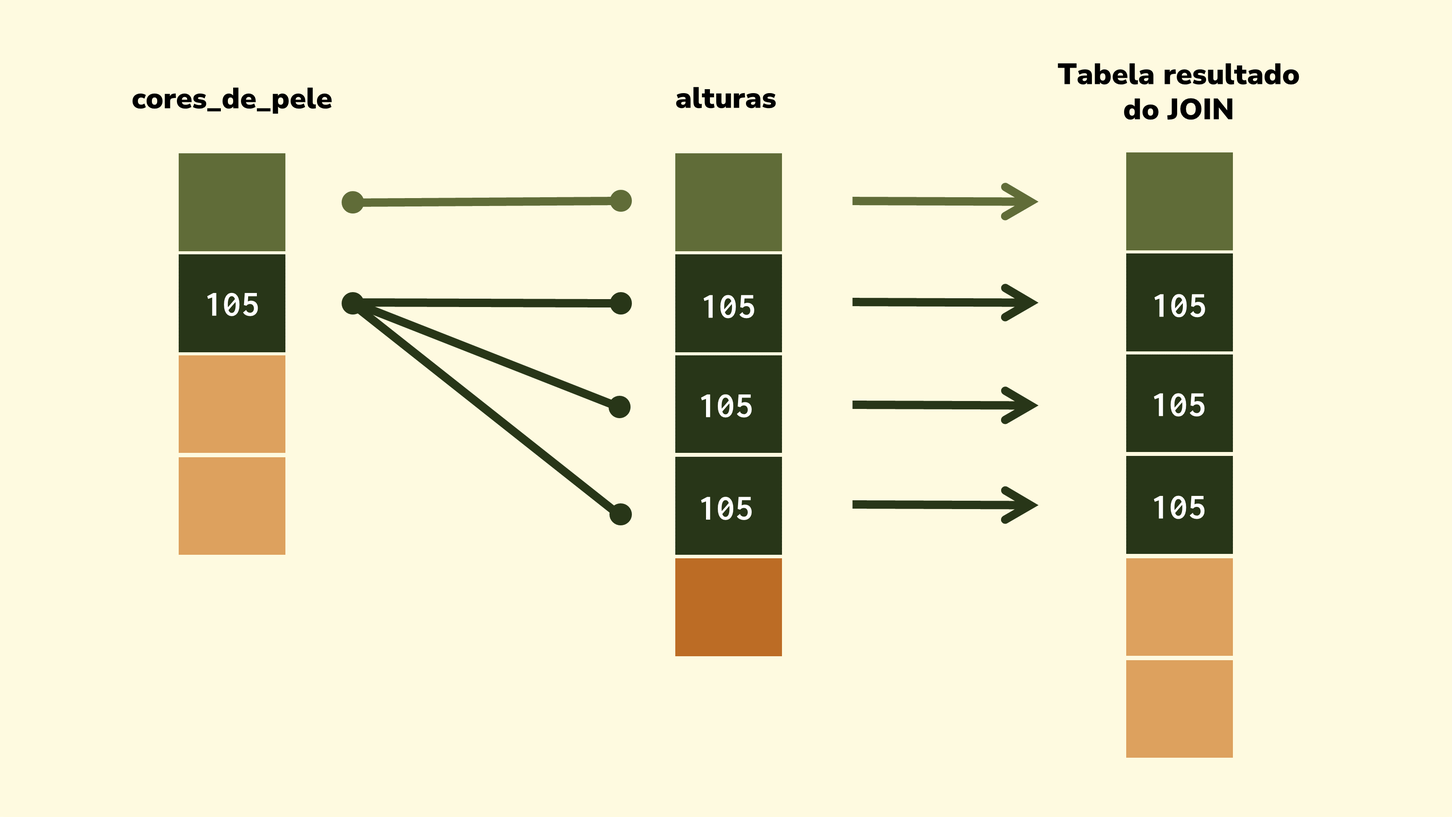
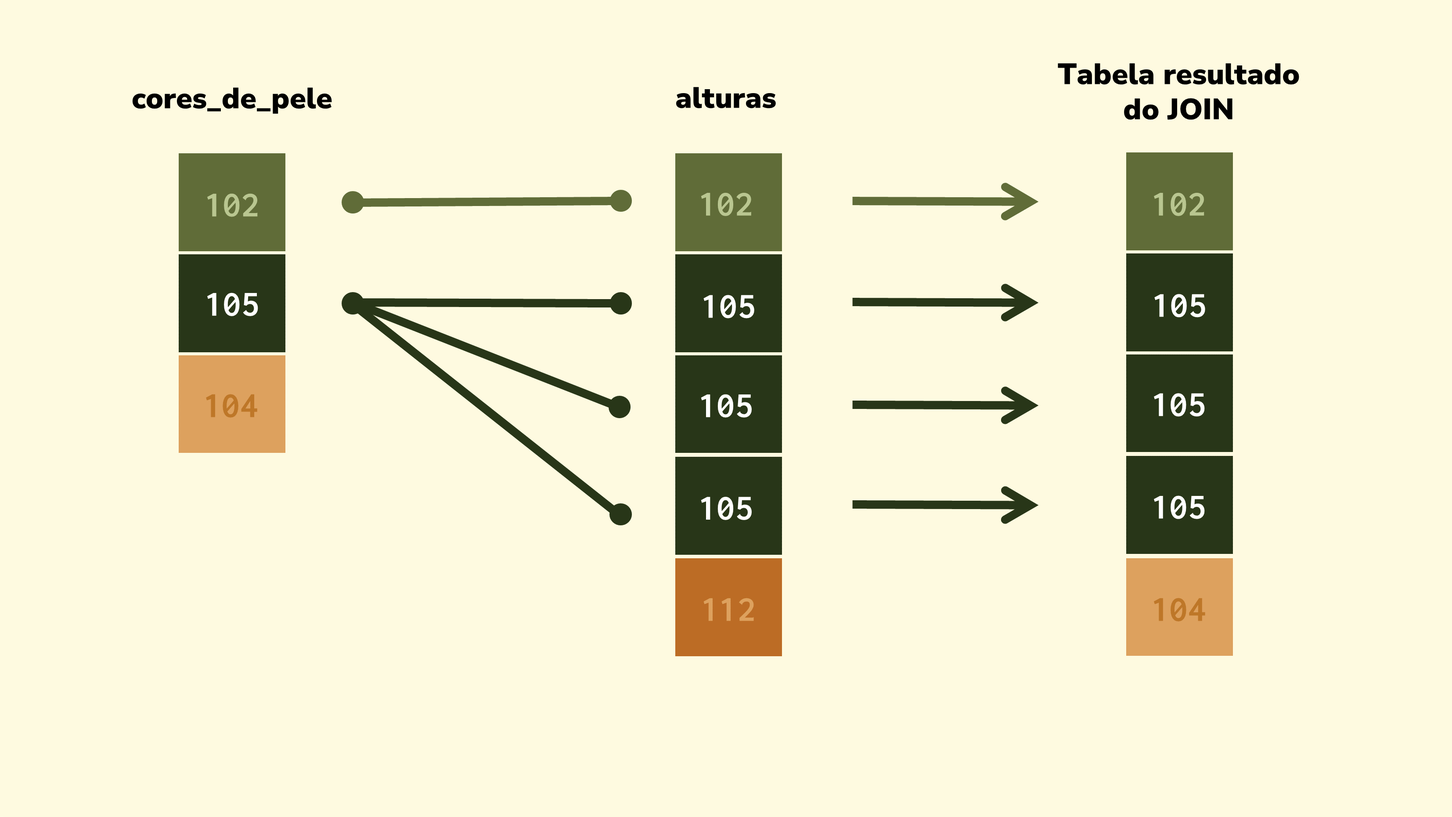
Post is complete

diff --git a/_site/posts/2023-01-10-join-duplicates/pt/index.html b/_site/posts/2023-01-10-join-duplicates/pt/index.html
@@ -286,7 +286,10 @@ gtag('config', 'G-7E6XG4WKHE', { 'anonymize_ip': true});
           Se os seus dados crescerem de forma repentina, sem explicação aparente, verifique se os seus JOINs são a fonte desse problema
         </div>
       </div>
-                </div>
+                          <div class="quarto-categories">
+                <div class="quarto-category">JOINs</div>
+              </div>
+                  </div>
   </div>
     
   <div class="quarto-title-meta-author">
@@ -338,13 +341,13 @@ A regra de ouro da programação DRY (*do not repeat yourself*) também pode inf
 <blockquote class="blockquote">
 <p>Uhmm… a tabela antiga indica que o número de maquininhas vendidas no mês de Dezembro foi de 1387. Porém, esse mesmo indicador na tabela nova está em 1824 para o mesmo mês de Dezembro. Porque esse aumento?</p>
 </blockquote>
-<p>Aumentos desse tipo podem ocorrer por uma variedade de razões. Porém, operações de JOIN tem sido uma razão específica que tenho enfrentado com muita frequência em meu trabalho. Em outras palavras, JOINs são fontes extremamente comuns desse tipo de “efeito expansivo”, e, muitos analistas não compreendem o porquê, ou não enxergam como isso pode ocorrer.</p>
-<p>Nesse post, busco justamente esclarecer como uma operação de JOIN pode causar esse “efeito de aumento” em seus dados. Eu também explico esse efeito em detalhes no capítulo 6 do meu livro introdutório da linguagem R. Mais especificamente, a partir da seção <a href="https://pedropark99.github.io/Introducao_R/introdu%C3%A7%C3%A3o-a-base-de-dados-relacionais-com-dplyr.html#rela%C3%A7%C3%B5es-entre-keys-primary-keys-s%C3%A3o-menos-comuns-do-que-voc%C3%AA-pensa">Relações entre <em>keys: primary keys</em> são menos comuns do que você pensa</a>. Portanto, grande parte do conhecimento exposto aqui são referências diretas ao livro.</p>
+<p>Aumentos desse tipo podem ocorrer por uma variedade de razões. Porém, operações de JOIN tem sido uma razão específica que tenho enfrentado com muita frequência em meu trabalho. Em outras palavras, JOINs são fontes extremamente comuns de dados duplicados. Como resultado, esses dados duplicados acabam gerando um “efeito expansivo” sobre os seus indicadores e suas tabelas.</p>
+<p>Muitos analistas não compreendem o porquê, ou não enxergam como isso pode ocorrer. Nesse post, busco justamente esclarecer como uma operação de JOIN pode causar esse “efeito expansivo” em seus dados. Eu também explico esse efeito em detalhes no capítulo 6 do meu livro introdutório da linguagem R. Mais especificamente, a partir da seção <a href="https://pedropark99.github.io/Introducao_R/introdu%C3%A7%C3%A3o-a-base-de-dados-relacionais-com-dplyr.html#rela%C3%A7%C3%B5es-entre-keys-primary-keys-s%C3%A3o-menos-comuns-do-que-voc%C3%AA-pensa">Relações entre <em>keys: primary keys</em> são menos comuns do que você pensa</a>. Portanto, grande parte do conhecimento exposto aqui são referências diretas ao livro.</p>
 </section>
 <section id="esse-efeito-independe-da-linguagem-de-programação-utilizada" class="level1">
 <h1>Esse efeito independe da linguagem de programação utilizada</h1>
-<p>Por opção minha, vou utilizar exemplos na linguagem R para demonstrar esse “efeito expansivo” de JOINs ao longo desse post. Mas você poderia facilmente transpor todos esses exemplos para qualquer outra linguagem de sua preferência (e.g.&nbsp;como o Python).</p>
-<p>Ou seja, o conhecimento exposto aqui <strong>independe da linguagem utilizada</strong>. Pois o efeito expansivo descrito aqui é uma característica intrínseca ao processo de JOIN, e não da linguagem utilizada.</p>
+<p>Por opção minha, vou utilizar exemplos na linguagem R para demonstrar esse “efeito expansivo” de JOINs. Mas você poderia facilmente transpor todos esses exemplos para qualquer outra linguagem de sua preferência (e.g.&nbsp;como o Python).</p>
+<p>Ou seja, o conhecimento exposto aqui <strong>independe da linguagem utilizada</strong>. Pois o efeito descrito aqui é uma característica intrínseca ao processo de JOIN, e não da linguagem utilizada.</p>
 </section>
 <section id="um-exemplo-de-efeito-expansivo" class="level1">
 <h1>Um exemplo de efeito expansivo</h1>
@@ -421,11 +424,11 @@ A regra de ouro da programação DRY (*do not repeat yourself*) também pode inf
 </div>
 </div>
 <p>Repare que nós não mudamos a fórmula de cálculo do indicador <code>N_usuarios</code>. Nós aplicamos a mesma função <code>n()</code> que utilizamos anteriormente. Nós também agrupamos a tabela <code>dados</code> pela coluna <code>Cor</code> com <code>group_by()</code>, da mesma forma que fizemos anteriormente. Porque esse aumento ocorreu?</p>
-<p>Nós não mudamos nada na fórmula de cálculo do indicador <code>N_usuarios</code>. Porém, nós introduzimos um novo item na cadeia de transformações da tabela. Mais especificamente, um LEFT JOIN realizado pela função <code>left_join()</code>. Ou seja, <strong>o JOIN é o que mudou nesse código</strong>, e ele é o culpado por esse estranho e repentino aumento no número de usuários de cor amarela.</p>
+<p>Nós não mudamos nada na fórmula de cálculo do indicador <code>N_usuarios</code>. Porém, nós introduzimos um novo item na cadeia de transformações da tabela. Mais especificamente, um LEFT JOIN realizado pela função <code>left_join()</code>. Ou seja, <strong>o JOIN é o que mudou nesse código</strong>, e ele é o culpado por esse estranho e repentino aumento no número de usuários de cor “Amarelo”.</p>
 </section>
 <section id="o-que-aconteceu" class="level2">
 <h2 class="anchored" data-anchor-id="o-que-aconteceu">O que aconteceu?</h2>
-<p>Se olharmos bem para a tabela resultado do JOIN (tabela <code>dados</code>) podemos começar a compreender o que aconteceu. Perceba que temos 6 linhas nessa tabela, isto é, temos 2 linhas a mais que a tabela <code>cores_de_pele</code> (que possui 4 linhas). Perceba também que temos 3 linhas nessa tabela descrevendo o mesmo usuário de ID 105. Ou seja, temos duplicatas para esse usuário.</p>
+<p>Se olharmos bem para a tabela resultado do JOIN (tabela <code>dados</code>) podemos começar a compreender o que aconteceu. Perceba que temos 6 linhas nessa tabela, isto é, temos 2 linhas a mais que a tabela <code>cores_de_pele</code> (que possui 4 linhas). Perceba também que temos 3 linhas nessa tabela descrevendo o mesmo usuário de ID 105. Ou seja, temos <strong>duplicatas</strong> para esse usuário.</p>
 <div class="cell">
 <div class="sourceCode cell-code" id="cb10"><pre class="sourceCode r code-with-copy"><code class="sourceCode r"><span id="cb10-1"><a href="#cb10-1" aria-hidden="true" tabindex="-1"></a>dados</span></code><button title="Copy to Clipboard" class="code-copy-button"><i class="bi"></i></button></pre></div>
 <div class="cell-output cell-output-stdout">
@@ -457,23 +460,28 @@ A regra de ouro da programação DRY (*do not repeat yourself*) também pode inf
 <section id="entenda-o-processo-de-pareamento-de-um-join" class="level2">
 <h2 class="anchored" data-anchor-id="entenda-o-processo-de-pareamento-de-um-join">Entenda o processo de pareamento de um JOIN</h2>
 <p>A única linha de ID 105 na tabela <code>cores_de_pele</code> se transformou em 3 linhas devido ao processo de pareamento dos dados realizado pelo JOIN. Todo JOIN, independe do tipo que ele seja (<em>left, inner, right, full</em>), vai sempre realizar um processo de pareamento entre os dados das duas tabelas, utilizando as colunas que representam as “chaves” do JOIN <span class="citation" data-cites="pedro2022">(<a href="#ref-pedro2022" role="doc-biblioref">Faria 2022</a>)</span>.</p>
-<p>No nosso exemplo, as chaves do JOIN são representadas pela coluna <code>ID</code>. Logo, o JOIN vai puxar os dados de uma tabela para a outra, utilizando os valores dessa coluna como guia. Podemos visualizar esse processo de pareamento dos dados em <a href="#fig-pareamento">Figure&nbsp;1</a>.</p>
+<p>Podemos visualizar esse processo de pareamento dos dados em <a href="#fig-pareamento">Figure&nbsp;1</a>. Perceba que, tanto no exemplo dessa imagem, quanto nesse exemplo desse post, as chaves do JOIN são representadas pela coluna <code>ID</code>. Logo, o JOIN vai puxar os dados de uma tabela para a outra, utilizando os valores dessa coluna como guia.</p>
 <div id="fig-pareamento" class="quarto-figure quarto-figure-center anchored">
 <figure class="figure">
 <p><img src="../pareamento1.png" class="img-fluid figure-img"></p>
 <p></p><figcaption class="figure-caption">Figure&nbsp;1: Processo de pareamento realizado em um JOIN</figcaption><p></p>
 </figure>
 </div>
-<p>No exemplo de <a href="#fig-pareamento">Figure&nbsp;1</a>, ambas as tabelas que estão sendo unidas possuem uma linha para cada <code>ID</code>. Ou seja, não existe IDs duplicados em nenhuma das duas tabelas, formando assim, uma relação de um para um entre as chaves do JOIN.</p>
-<p>Contudo, apesar da tabela <code>cores_de_pele</code> não apresentar IDs duplicados, a tabela <code>alturas</code> por sua vez, possui três linhas diferentes para o mesmo ID 105. Nesse caso, como o processo de pareamento do JOIN deve se comportar? Bem, o seguinte vai acontecer…</p>
-<p>Primeiro, o JOIN vai pegar o ID 105 da tabela <code>cores_de_pele</code> e pesquisar por ele ao longo da tabela <code>alturas</code>. Como resultado, o JOIN vai localizar três linhas distintas para o ID 105. Segundo, o JOIN percebe que há um desequilíbrio (1 linha de <code>cores_de_pele</code> <span class="math inline">\(\times\)</span> 3 linhas de <code>alturas</code>). Terceiro, para reequilibrar essa balança, o JOIN vai executar um produto cartesiano entre as linhas dessas duas tabelas. A <a href="#fig-desenho-expansao">Figure&nbsp;2</a> apresenta de forma visual esse produto cartesiano aplicado sobre o ID 105:</p>
+<p>No exemplo de <a href="#fig-pareamento">Figure&nbsp;1</a>, ambas as tabelas que estão sendo unidas possuem uma linha para cada <code>ID</code>. Ou seja, não existe IDs duplicados em nenhuma das duas tabelas, formando assim, uma relação de “um para um” entre as chaves do JOIN.</p>
+<p>Contudo, no exemplo deste post, a tabela <code>alturas</code> possui três linhas diferentes para o mesmo ID 105, enquanto a tabela <code>cores_de_pele</code> não apresenta IDs duplicados. Isso acaba formando uma relação de “um para muitos” entre as chaves do JOIN. Nesse caso, como o processo de pareamento do JOIN deve se comportar? Bem, o seguinte vai acontecer…</p>
+<ol type="1">
+<li><p>O JOIN vai pegar o ID 105 da tabela <code>cores_de_pele</code> e pesquisar por ele ao longo da tabela <code>alturas</code>. Como resultado, o JOIN vai localizar três linhas distintas para o ID 105.</p></li>
+<li><p>O JOIN percebe que há um desequilíbrio (1 linha de <code>cores_de_pele</code> <span class="math inline">\(\times\)</span> 3 linhas de <code>alturas</code>).</p></li>
+<li><p>Para reequilibrar essa balança, o JOIN vai executar um produto cartesiano entre as linhas dessas duas tabelas.</p></li>
+</ol>
+<p>A <a href="#fig-desenho-expansao">Figure&nbsp;2</a> apresenta de forma visual esse produto cartesiano aplicado sobre o ID 105:</p>
 <div id="fig-desenho-expansao" class="quarto-figure quarto-figure-center anchored">
 <figure class="figure">
 <p><img src="./../expansao.png" class="img-fluid figure-img"></p>
 <p></p><figcaption class="figure-caption">Figure&nbsp;2: Uma representação visual do efeito expansivo sobre o ID 105</figcaption><p></p>
 </figure>
 </div>
-<p>Ou seja, o JOIN vai retornar como resultado, todas as combinações possíveis entre a linha única de <code>cores_de_pele</code> e as 3 linhas de <code>alturas</code>. Ou seja, a linha única de <code>cores_de_pele</code> é combinada com cada uma das 3 linhas de <code>alturas</code>. Como resultado, temos as 3 linhas de ID 105 na tabela <code>dados</code>.</p>
+<p>Ou seja, o JOIN vai retornar como resultado, todas as combinações possíveis entre a linha única de <code>cores_de_pele</code> e as 3 linhas de <code>alturas</code>. Ou seja, a linha única de <code>cores_de_pele</code> é combinada com cada uma das 3 linhas de <code>alturas</code>. Como resultado, temos as 3 linhas de ID 105 na tabela <code>dados</code>:</p>
 <div class="cell">
 <div class="sourceCode cell-code" id="cb14"><pre class="sourceCode r code-with-copy"><code class="sourceCode r"><span id="cb14-1"><a href="#cb14-1" aria-hidden="true" tabindex="-1"></a>dados</span></code><button title="Copy to Clipboard" class="code-copy-button"><i class="bi"></i></button></pre></div>
 <div class="cell-output cell-output-stdout">
@@ -490,21 +498,18 @@ A regra de ouro da programação DRY (*do not repeat yourself*) também pode inf
 </div>
 </section>
 </section>
-<section id="relações-entre-keys-de-um-join" class="level1">
-<h1>Relações entre <em>keys</em> de um JOIN</h1>
-<p>As “chaves” (ou <em>keys</em>) de todo JOIN podem formar três tipos de relação: 1) um para um; 2) um para muitos; e 3) muitos para muitos. Em <a href="#fig-relacoes">Figure&nbsp;3</a> apresentamos cada uma dessas relações de forma visual, onde a coluna <code>key</code> representa a “chave” do JOIN.</p>
+<section id="conclusão" class="level1">
+<h1>Conclusão</h1>
+<p>Portanto, o produto cartesiano executado pelo JOIN gerou linhas duplicadas para o ID 105, e essa introdução de duplicatas acabou distorcendo o valor dos indicadores. <strong>O efeito expansivo está no produto cartesiano gerado pelo JOIN</strong>, e você deve ficar atento em todas as situações em que esse produto pode ocorrer.</p>
+<p>Mas então… em que momentos especificamente esse produto cartesiano é gerado? A resposta é: sempre que existir uma relação de “um para muitos” ou de “muitos para muitos” entre as chaves do JOIN. As “chaves” (ou <em>keys</em>) de todo JOIN podem formar três tipos de relação: 1) um para um; 2) um para muitos; e 3) muitos para muitos <span class="citation" data-cites="pedro2022">(<a href="#ref-pedro2022" role="doc-biblioref">Faria 2022</a>)</span>. Em <a href="#fig-relacoes">Figure&nbsp;3</a> apresentamos cada uma dessas relações de forma visual, onde a coluna <code>key</code> representa a “chave” do JOIN.</p>
 <div id="fig-relacoes" class="quarto-figure quarto-figure-center anchored">
 <figure class="figure">
 <p><img src="../relacoes_keys.png" class="img-fluid figure-img" style="width:80.0%"></p>
 <p></p><figcaption class="figure-caption">Figure&nbsp;3: Resumo das relações possíveis entre <em>keys</em></figcaption><p></p>
 </figure>
 </div>
-<p>Perceba que, para o caso de relação um para um, o número de linhas na tabela resultado permanece inalterado. Porém, as relações que realmente nos interessam nesse post são as relações de “um para muitos” e de “muitos para muitos”. Perceba que algum nível de “duplicação” de informações é gerado nesses dois tipos de relação.</p>
-<p>É através dessa “duplicação” que pode ocorrer o que estamos chamando de “efeito expansivo” dos JOINs nesse post. <strong>Vale destacar que esse efeito independe do tipo de JOIN que você está realizando</strong>. Pois esse efeito expansivo nasce do processo de pareamento e da relação entre as “chaves” do JOIN, e não do tipo de JOIN (<em>inner, left, right, full</em>) que você está executando.</p>
-</section>
-<section id="conclusão" class="level1">
-<h1>Conclusão</h1>
-<p>Perceba pelo exemplo acima, que <strong>em nenhum momento nós mudamos a forma</strong> como o indicador <code>N_usuarios</code> estava sendo calculado. Porém, o simples fato de introduzirmos um JOIN no caminho gerou uma expansão dos dados que distorceu os valores desse indicador.</p>
+<p>Perceba que, para o caso de relação um para um, o número de linhas na tabela resultado permanece inalterado. Porém, as relações que realmente nos interessam nesse post são as relações de “um para muitos” e de “muitos para muitos”. Perceba que um produto cartesiano ocorre nesses dois tipos de relação, e, como resultado, algum nível de “duplicação” de informações é gerado na tabela resultado do JOIN. É através dessa “duplicação” que pode ocorrer o que estamos chamando de “efeito expansivo” dos JOINs nesse post.</p>
+<p>Por último, vale destacar que este produto cartesiano independe do tipo de JOIN (<em>inner, left, right, full</em>) que você está executando, mas depende diretamente dos seus dados e da relação que eles formam entre as chaves do JOIN.</p>
 
 
 

diff --git a/_site/posts/index.html b/_site/posts/index.html
@@ -229,7 +229,7 @@ gtag('config', 'G-7E6XG4WKHE', { 'anonymize_ip': true});
 <!-- margin-sidebar -->
     <div id="quarto-margin-sidebar" class="sidebar margin-sidebar">
         
-    <h5 class="quarto-listing-category-title">Categories</h5><div class="quarto-listing-category category-cloud"><div class="category" data-category="API"><span class="quarto-category-count category-cloud-1">API</span></div><div class="category" data-category="Apache Spark"><span class="quarto-category-count category-cloud-1">Apache Spark</span></div><div class="category" data-category="Book"><span class="quarto-category-count category-cloud-5">Book</span></div><div class="category" data-category="Figma"><span class="quarto-category-count category-cloud-1">Figma</span></div><div class="category" data-category="Joins"><span class="quarto-category-count category-cloud-2">Joins</span></div><div class="category" data-category="Package"><span class="quarto-category-count category-cloud-2">Package</span></div><div class="category" data-category="Power BI"><span class="quarto-category-count category-cloud-1">Power BI</span></div><div class="category" data-category="Power BI Online"><span class="quarto-category-count category-cloud-1">Power BI Online</span></div><div class="category" data-category="Python"><span class="quarto-category-count category-cloud-1">Python</span></div><div class="category" data-category="R Language"><span class="quarto-category-count category-cloud-7">R Language</span></div><div class="category" data-category="Teaching"><span class="quarto-category-count category-cloud-3">Teaching</span></div><div class="category" data-category="pyspark"><span class="quarto-category-count category-cloud-1">pyspark</span></div></div></div>
+    <h5 class="quarto-listing-category-title">Categories</h5><div class="quarto-listing-category category-cloud"><div class="category" data-category="API"><span class="quarto-category-count category-cloud-1">API</span></div><div class="category" data-category="Apache Spark"><span class="quarto-category-count category-cloud-1">Apache Spark</span></div><div class="category" data-category="Book"><span class="quarto-category-count category-cloud-3">Book</span></div><div class="category" data-category="Figma"><span class="quarto-category-count category-cloud-1">Figma</span></div><div class="category" data-category="JOINs"><span class="quarto-category-count category-cloud-3">JOINs</span></div><div class="category" data-category="Package"><span class="quarto-category-count category-cloud-2">Package</span></div><div class="category" data-category="Power BI"><span class="quarto-category-count category-cloud-1">Power BI</span></div><div class="category" data-category="Power BI Online"><span class="quarto-category-count category-cloud-1">Power BI Online</span></div><div class="category" data-category="Python"><span class="quarto-category-count category-cloud-1">Python</span></div><div class="category" data-category="R Language"><span class="quarto-category-count category-cloud-5">R Language</span></div><div class="category" data-category="Teaching"><span class="quarto-category-count category-cloud-3">Teaching</span></div><div class="category" data-category="pyspark"><span class="quarto-category-count category-cloud-1">pyspark</span></div></div></div>
 <!-- main -->
 <main class="content" id="quarto-document-content">
 
@@ -290,7 +290,7 @@ gtag('config', 'G-7E6XG4WKHE', { 'anonymize_ip': true});
     </div>
 </div>
 <div class="list grid quarto-listing-cols-3">
-<div class="g-col-1" data-index="0" data-listing-date-sort="1673319600000" data-listing-file-modified-sort="1673664134315" data-listing-reading-time-sort="7.375">
+<div class="g-col-1" data-index="0" data-categories="JOINs" data-listing-date-sort="1673319600000" data-listing-file-modified-sort="1673707292014" data-listing-reading-time-sort="7.745">
 <a href="../posts/2023-01-10-join-duplicates/pt/index.html" class="quarto-grid-link">
 <div class="quarto-grid-item card h-100 card-left">
 <p class="card-img-top">
@@ -300,6 +300,11 @@ gtag('config', 'G-7E6XG4WKHE', { 'anonymize_ip': true});
 <h5 class="no-anchor card-title listing-title">
 JOINs são importantes fontes de duplicações em seus dados
 </h5>
+<div class="listing-categories">
+<div class="listing-category" onclick="window.quartoListingCategory('JOINs'); return false;">
+JOINs
+</div>
+</div>
 <div class="card-text listing-description">
 Se os seus dados crescerem de forma repentina, sem explicação aparente, verifique se os seus JOINs são a fonte desse problema
 </div>
@@ -525,7 +530,7 @@ May 26, 2021
 </div>
 </a>
 </div>
-<div class="g-col-1" data-index="7" data-categories="Joins,Teaching,Book,R Language" data-listing-date-sort="1609556400000" data-listing-file-modified-sort="1671533809070" data-listing-reading-time-sort="4.805">
+<div class="g-col-1" data-index="7" data-categories="JOINs,Teaching" data-listing-date-sort="1609556400000" data-listing-file-modified-sort="1673707321834" data-listing-reading-time-sort="4.805">
 <a href="../posts/2021-01-02-tabela-destinataria-fonte/en/index.html" class="quarto-grid-link">
 <div class="quarto-grid-item card h-100 card-left">
 <p class="card-img-top">
@@ -536,17 +541,11 @@ May 26, 2021
 Recipient table and source table
 </h5>
 <div class="listing-categories">
-<div class="listing-category" onclick="window.quartoListingCategory('Joins'); return false;">
-Joins
+<div class="listing-category" onclick="window.quartoListingCategory('JOINs'); return false;">
+JOINs
 </div>
 <div class="listing-category" onclick="window.quartoListingCategory('Teaching'); return false;">
 Teaching
-</div>
-<div class="listing-category" onclick="window.quartoListingCategory('Book'); return false;">
-Book
-</div>
-<div class="listing-category" onclick="window.quartoListingCategory('R Language'); return false;">
-R Language
 </div>
 </div>
 <div class="card-text listing-description">
@@ -564,7 +563,7 @@ Jan 2, 2021
 </div>
 </a>
 </div>
-<div class="g-col-1" data-index="8" data-categories="Joins,Teaching,Book,R Language" data-listing-date-sort="1609556400000" data-listing-file-modified-sort="1671533809073" data-listing-reading-time-sort="4.525">
+<div class="g-col-1" data-index="8" data-categories="JOINs,Teaching" data-listing-date-sort="1609556400000" data-listing-file-modified-sort="1673707338311" data-listing-reading-time-sort="4.525">
 <a href="../posts/2021-01-02-tabela-destinataria-fonte/pt/index.html" class="quarto-grid-link">
 <div class="quarto-grid-item card h-100 card-left">
 <p class="card-img-top">
@@ -575,17 +574,11 @@ Jan 2, 2021
 Tabela destinatária e tabela fonte
 </h5>
 <div class="listing-categories">
-<div class="listing-category" onclick="window.quartoListingCategory('Joins'); return false;">
-Joins
+<div class="listing-category" onclick="window.quartoListingCategory('JOINs'); return false;">
+JOINs
 </div>
 <div class="listing-category" onclick="window.quartoListingCategory('Teaching'); return false;">
 Teaching
-</div>
-<div class="listing-category" onclick="window.quartoListingCategory('Book'); return false;">
-Book
-</div>
-<div class="listing-category" onclick="window.quartoListingCategory('R Language'); return false;">
-R Language
 </div>
 </div>
 <div class="card-text listing-description">

diff --git a/_site/posts/pt.html b/_site/posts/pt.html
@@ -229,7 +229,7 @@ gtag('config', 'G-7E6XG4WKHE', { 'anonymize_ip': true});
 <!-- margin-sidebar -->
     <div id="quarto-margin-sidebar" class="sidebar margin-sidebar">
         
-    <h5 class="quarto-listing-category-title">Categories</h5><div class="quarto-listing-category category-cloud"><div class="category" data-category="Book"><span class="quarto-category-count category-cloud-6">Book</span></div><div class="category" data-category="Joins"><span class="quarto-category-count category-cloud-2">Joins</span></div><div class="category" data-category="Power BI"><span class="quarto-category-count category-cloud-2">Power BI</span></div><div class="category" data-category="Power BI Online"><span class="quarto-category-count category-cloud-2">Power BI Online</span></div><div class="category" data-category="R Language"><span class="quarto-category-count category-cloud-8">R Language</span></div><div class="category" data-category="Teaching"><span class="quarto-category-count category-cloud-3">Teaching</span></div></div></div>
+    <h5 class="quarto-listing-category-title">Categories</h5><div class="quarto-listing-category category-cloud"><div class="category" data-category="Book"><span class="quarto-category-count category-cloud-5">Book</span></div><div class="category" data-category="JOINs"><span class="quarto-category-count category-cloud-3">JOINs</span></div><div class="category" data-category="Power BI"><span class="quarto-category-count category-cloud-2">Power BI</span></div><div class="category" data-category="Power BI Online"><span class="quarto-category-count category-cloud-2">Power BI Online</span></div><div class="category" data-category="R Language"><span class="quarto-category-count category-cloud-6">R Language</span></div><div class="category" data-category="Teaching"><span class="quarto-category-count category-cloud-3">Teaching</span></div></div></div>
 <!-- main -->
 <main class="content" id="quarto-document-content">
 
@@ -290,7 +290,7 @@ gtag('config', 'G-7E6XG4WKHE', { 'anonymize_ip': true});
     </div>
 </div>
 <div class="list quarto-listing-default">
-<div class="quarto-post image-right" data-index="0" data-listing-date-sort="1673319600000" data-listing-file-modified-sort="1673664134315" data-listing-reading-time-sort="7.375">
+<div class="quarto-post image-right" data-index="0" data-categories="JOINs" data-listing-date-sort="1673319600000" data-listing-file-modified-sort="1673707292014" data-listing-reading-time-sort="7.745">
 <div class="thumbnail">
 <p><a href="../posts/2023-01-10-join-duplicates/pt/index.html"> <img src="../posts/2023-01-10-join-duplicates/expansao.png" class="thumnail-image"> </a></p>
 </div>
@@ -302,6 +302,13 @@ JOINs são importantes fontes de duplicações em seus dados
 <div class="listing-subtitle">
 
 </div>
+</a>
+<div class="listing-categories">
+<div class="listing-category" onclick="window.quartoListingCategory('JOINs'); return false;">
+JOINs
+</div>
+</div>
+<a href="../posts/2023-01-10-join-duplicates/pt/index.html">
 <div class="listing-description">
 <p>Se os seus dados crescerem de forma repentina, sem explicação aparente, verifique se os seus JOINs são a fonte desse problema</p>
 </div>
@@ -470,7 +477,7 @@ Pedro Duarte Faria
 </a>
 </div>
 </div>
-<div class="quarto-post image-right" data-index="5" data-categories="Joins,Teaching,Book,R Language" data-listing-date-sort="1609556400000" data-listing-file-modified-sort="1671533809073" data-listing-reading-time-sort="4.525">
+<div class="quarto-post image-right" data-index="5" data-categories="JOINs,Teaching" data-listing-date-sort="1609556400000" data-listing-file-modified-sort="1673707338311" data-listing-reading-time-sort="4.525">
 <div class="thumbnail">
 <p><a href="../posts/2021-01-02-tabela-destinataria-fonte/pt/index.html"> <img src="../posts/2021-01-02-tabela-destinataria-fonte/featured.png" class="thumnail-image"> </a></p>
 </div>
@@ -484,17 +491,11 @@ Uma segunda visão sobre <em>outer joins</em>
 </div>
 </a>
 <div class="listing-categories">
-<div class="listing-category" onclick="window.quartoListingCategory('Joins'); return false;">
-Joins
+<div class="listing-category" onclick="window.quartoListingCategory('JOINs'); return false;">
+JOINs
 </div>
 <div class="listing-category" onclick="window.quartoListingCategory('Teaching'); return false;">
 Teaching
-</div>
-<div class="listing-category" onclick="window.quartoListingCategory('Book'); return false;">
-Book
-</div>
-<div class="listing-category" onclick="window.quartoListingCategory('R Language'); return false;">
-R Language
 </div>
 </div>
 <a href="../posts/2021-01-02-tabela-destinataria-fonte/pt/index.html">

diff --git a/_site/posts/en.html b/_site/posts/en.html
@@ -229,7 +229,7 @@ gtag('config', 'G-7E6XG4WKHE', { 'anonymize_ip': true});
 <!-- margin-sidebar -->
     <div id="quarto-margin-sidebar" class="sidebar margin-sidebar">
         
-    <h5 class="quarto-listing-category-title">Categories</h5><div class="quarto-listing-category category-cloud"><div class="category" data-category="API"><span class="quarto-category-count category-cloud-4">API</span></div><div class="category" data-category="Apache Spark"><span class="quarto-category-count category-cloud-4">Apache Spark</span></div><div class="category" data-category="Book"><span class="quarto-category-count category-cloud-4">Book</span></div><div class="category" data-category="Figma"><span class="quarto-category-count category-cloud-4">Figma</span></div><div class="category" data-category="Joins"><span class="quarto-category-count category-cloud-4">Joins</span></div><div class="category" data-category="Package"><span class="quarto-category-count category-cloud-7">Package</span></div><div class="category" data-category="Python"><span class="quarto-category-count category-cloud-4">Python</span></div><div class="category" data-category="R Language"><span class="quarto-category-count category-cloud-7">R Language</span></div><div class="category" data-category="Teaching"><span class="quarto-category-count category-cloud-4">Teaching</span></div><div class="category" data-category="pyspark"><span class="quarto-category-count category-cloud-4">pyspark</span></div></div></div>
+    <h5 class="quarto-listing-category-title">Categories</h5><div class="quarto-listing-category category-cloud"><div class="category" data-category="API"><span class="quarto-category-count category-cloud-4">API</span></div><div class="category" data-category="Apache Spark"><span class="quarto-category-count category-cloud-4">Apache Spark</span></div><div class="category" data-category="Figma"><span class="quarto-category-count category-cloud-4">Figma</span></div><div class="category" data-category="JOINs"><span class="quarto-category-count category-cloud-4">JOINs</span></div><div class="category" data-category="Package"><span class="quarto-category-count category-cloud-7">Package</span></div><div class="category" data-category="Python"><span class="quarto-category-count category-cloud-4">Python</span></div><div class="category" data-category="R Language"><span class="quarto-category-count category-cloud-4">R Language</span></div><div class="category" data-category="Teaching"><span class="quarto-category-count category-cloud-4">Teaching</span></div><div class="category" data-category="pyspark"><span class="quarto-category-count category-cloud-4">pyspark</span></div></div></div>
 <!-- main -->
 <main class="content" id="quarto-document-content">
 
@@ -378,7 +378,7 @@ Pedro Duarte Faria
 </a>
 </div>
 </div>
-<div class="quarto-post image-right" data-index="2" data-categories="Joins,Teaching,Book,R Language" data-listing-date-sort="1609556400000" data-listing-file-modified-sort="1671533809070" data-listing-reading-time-sort="4.805">
+<div class="quarto-post image-right" data-index="2" data-categories="JOINs,Teaching" data-listing-date-sort="1609556400000" data-listing-file-modified-sort="1673707321834" data-listing-reading-time-sort="4.805">
 <div class="thumbnail">
 <p><a href="../posts/2021-01-02-tabela-destinataria-fonte/en/index.html"> <img src="../posts/2021-01-02-tabela-destinataria-fonte/featured.png" class="thumnail-image"> </a></p>
 </div>
@@ -392,17 +392,11 @@ A second view on <em>outer joins</em>
 </div>
 </a>
 <div class="listing-categories">
-<div class="listing-category" onclick="window.quartoListingCategory('Joins'); return false;">
-Joins
+<div class="listing-category" onclick="window.quartoListingCategory('JOINs'); return false;">
+JOINs
 </div>
 <div class="listing-category" onclick="window.quartoListingCategory('Teaching'); return false;">
 Teaching
-</div>
-<div class="listing-category" onclick="window.quartoListingCategory('Book'); return false;">
-Book
-</div>
-<div class="listing-category" onclick="window.quartoListingCategory('R Language'); return false;">
-R Language
 </div>
 </div>
 <a href="../posts/2021-01-02-tabela-destinataria-fonte/en/index.html">

diff --git a/_site/index.html b/_site/index.html
@@ -338,7 +338,7 @@ No matching items
 <h2 class="anchored" data-anchor-id="posts">Posts</h2>
 <div id="listing-posts" class="quarto-listing quarto-listing-container-grid">
 <div class="list grid quarto-listing-cols-3">
-<div class="g-col-1" data-index="0" data-listing-date-sort="1673319600000" data-listing-file-modified-sort="1673664134315" data-listing-reading-time-sort="7.375">
+<div class="g-col-1" data-index="0" data-categories="JOINs" data-listing-date-sort="1673319600000" data-listing-file-modified-sort="1673707292014" data-listing-reading-time-sort="7.745">
 <a href="./posts/2023-01-10-join-duplicates/pt/index.html" class="quarto-grid-link">
 <div class="quarto-grid-item card h-100 card-left">
 <p class="card-img-top">
@@ -513,7 +513,7 @@ May 26, 2021
 </div>
 </a>
 </div>
-<div class="g-col-1" data-index="7" data-categories="Joins,Teaching,Book,R Language" data-listing-date-sort="1609556400000" data-listing-file-modified-sort="1671533809070" data-listing-reading-time-sort="4.805">
+<div class="g-col-1" data-index="7" data-categories="JOINs,Teaching" data-listing-date-sort="1609556400000" data-listing-file-modified-sort="1673707321834" data-listing-reading-time-sort="4.805">
 <a href="./posts/2021-01-02-tabela-destinataria-fonte/en/index.html" class="quarto-grid-link">
 <div class="quarto-grid-item card h-100 card-left">
 <p class="card-img-top">
@@ -538,7 +538,7 @@ Jan 2, 2021
 </div>
 </a>
 </div>
-<div class="g-col-1" data-index="8" data-categories="Joins,Teaching,Book,R Language" data-listing-date-sort="1609556400000" data-listing-file-modified-sort="1671533809073" data-listing-reading-time-sort="4.525">
+<div class="g-col-1" data-index="8" data-categories="JOINs,Teaching" data-listing-date-sort="1609556400000" data-listing-file-modified-sort="1673707338311" data-listing-reading-time-sort="4.525">
 <a href="./posts/2021-01-02-tabela-destinataria-fonte/pt/index.html" class="quarto-grid-link">
 <div class="quarto-grid-item card h-100 card-left">
 <p class="card-img-top">
